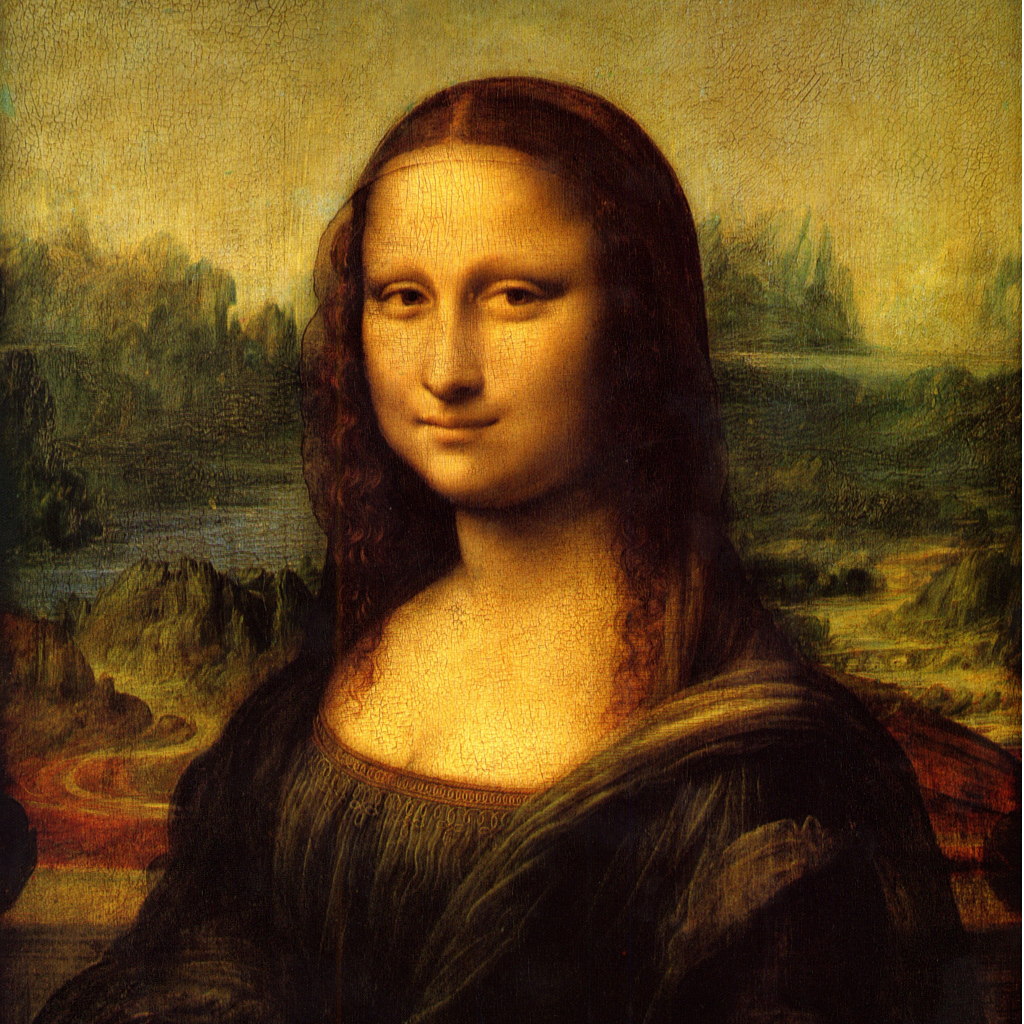
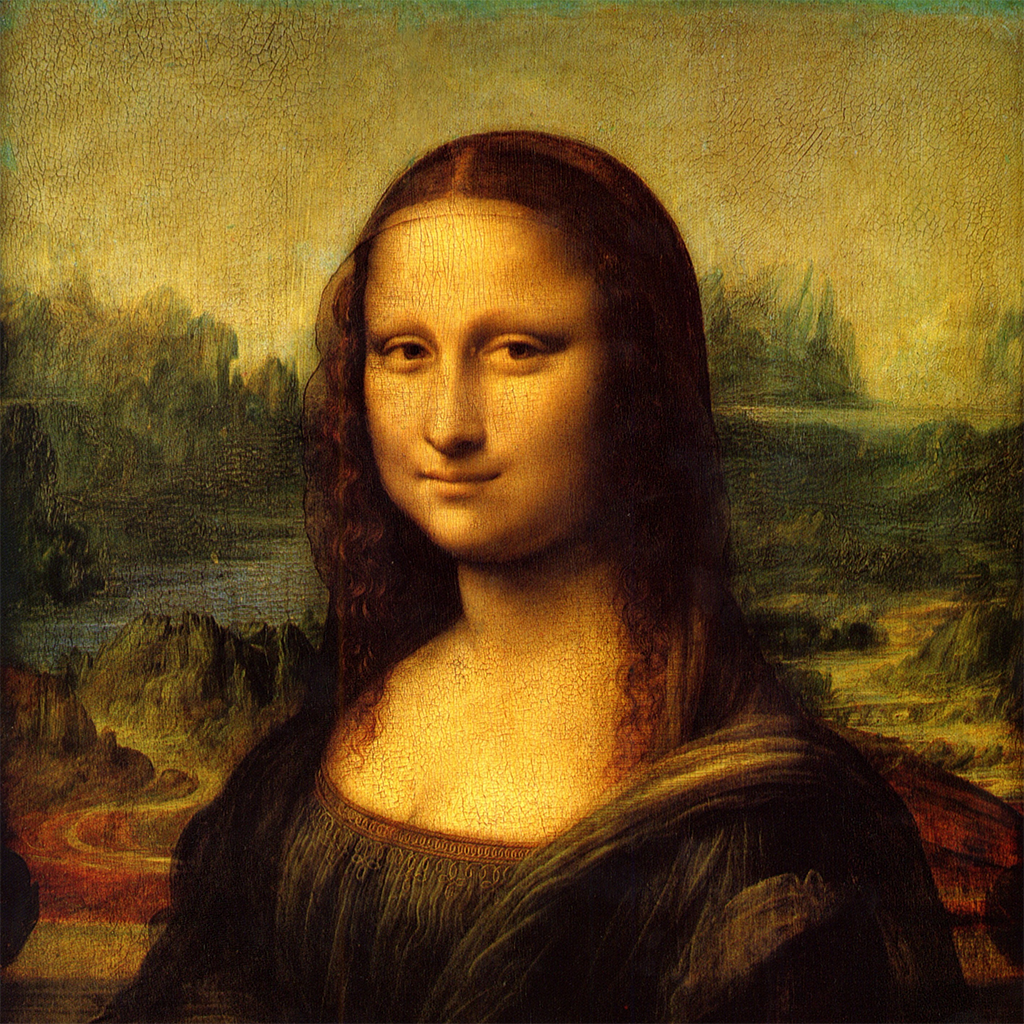
as dasd

diff --git a/MiniMalIstic/src/com/gamelab/mmi/Map.java b/MiniMalIstic/src/com/gamelab/mmi/Map.java
@@ -29,15 +29,21 @@ public class Map {
 	}
 	
 	public void resetPixelsEverTouched () {
-		Arrays.fill(pixelsEverTouched, false);
+		for(int i = 0; i < pixelsEverTouched.length; i++) {
+		    Arrays.fill(pixelsEverTouched[i], false);
+		}
+		//Arrays.fill(pixelsEverTouched, false);
 	}
 	
 	public void resetPixelsRecentlyTouched () {
-		Arrays.fill(pixelsRecentlyTouched, false);
+		for(int i = 0; i < pixelsRecentlyTouched.length; i++) {
+		    Arrays.fill(pixelsRecentlyTouched[i], false);
+		}
+		//Arrays.fill(pixelsRecentlyTouched, false);
 	}
 	
 	public boolean touchPixel(int x, int y) {
-		if (x > pixelsEverTouched.length || x > pixelsEverTouched[0].length) 
+		if (x >= pixelsEverTouched.length || y >= pixelsEverTouched[0].length || y < 0 || x < 0) 
 			return false;
 		
 		if (!pixelsEverTouched[x][y]) {
@@ -51,7 +57,7 @@ public class Map {
 	}
 	
 	public boolean getRecentlyTouched(int x, int y) {
-		if (x > pixelsEverTouched.length || x > pixelsEverTouched[0].length) 
+		if (x > pixelsEverTouched.length || y > pixelsEverTouched[0].length || y < 0 || x < 0) 
 			return false;
 		
 		return pixelsRecentlyTouched[x][y];

diff --git a/MiniMalIstic/src/com/gamelab/mmi/PixelTool.java b/MiniMalIstic/src/com/gamelab/mmi/PixelTool.java
@@ -21,7 +21,7 @@ public class PixelTool extends Tool {
 		
 		if (curDistanceUntilDraw > 0) return;
 		
-		curDistanceUntilDraw = 1.8f*radius;
+		curDistanceUntilDraw = 0.8f*radius;
 		
 		int PixelRadius = (int)(radius/2.0f);
 		
@@ -31,7 +31,9 @@ public class PixelTool extends Tool {
 				if (x * x + y * y <= r * r) {
 					int pX = (int) (curPos.x + x);
 					int pY = (int) (curPos.y + y);
-					drawAbstractPixel(pX, pY, PixelRadius);
+					if (!map.getRecentlyTouched(pX, pY)) {
+						drawAbstractPixel(pX, pY, PixelRadius);
+					}
 				}							
 			}			
 		}
@@ -44,6 +46,11 @@ public class PixelTool extends Tool {
 		
 		pixmapHelper.pixmap.setColor(c);
 		pixmapHelper.pixmap.fillRectangle(_x, Gdx.graphics.getHeight() - _y, 2 * pixelRadius, 2 * pixelRadius);
+		for (int x = _x; x < _x + 2 * pixelRadius; x++) {
+			for (int y = _y; y < _y + 2 * pixelRadius; y++) {
+				map.touchPixel(x, y);
+			}			
+		}
 	}
 	
 	private Color getAverageArroundPixel(int _x, int _y, int pixelRadius) {

diff --git a/MiniMalIstic/src/com/gamelab/mmi/NegatronTool.java b/MiniMalIstic/src/com/gamelab/mmi/NegatronTool.java
@@ -20,7 +20,7 @@ public class NegatronTool extends Tool {
 		
 		if (curDistanceUntilDraw > 0) return;
 		
-		curDistanceUntilDraw = 1.5f*radius;
+		curDistanceUntilDraw = 0.4f*radius;
 		
 		int r = (int) radius;
 		for (int x = -r; x <= r; x++) {
@@ -28,6 +28,11 @@ public class NegatronTool extends Tool {
 				if (x * x + y * y <= r * r) {
 					int pX = (int) (curPos.x + x);
 					int pY = (int) (curPos.y + y);
+					if (map.getRecentlyTouched(pX, pY)) {
+						continue;
+					}
+					map.touchPixel(pX, pY);
+					
 					int value = pixmapHelper.pixmap.getPixel(pX, Gdx.graphics.getHeight() - pY);
 					Color valColor = new Color();
 					Color.rgba8888ToColor(valColor, value);

diff --git a/MiniMalIstic/src/com/gamelab/mmi/Player.java b/MiniMalIstic/src/com/gamelab/mmi/Player.java
@@ -45,10 +45,19 @@ public class Player {
 			pos.add(this.lockAt.cpy().mul(delta * speed));
 			this.length = this.length - delta * speed;
 			
-			tools[tool].draw(pos, oldPos, toolSize, delta * speed);
+			
+			
+			Vector2 headPos = new Vector2(46, 16);
+			
+			Vector2 deltaBrush = new Vector2(42, 47).sub(headPos);
+			
+			deltaBrush.rotate((float) this.rotation + 180);
+					
+			tools[tool].draw(pos.cpy().add(deltaBrush), oldPos, toolSize, delta * speed);
 		} else {
 			pos.add(this.lockAt.cpy().mul(this.length));
 			this.length = 0;
+			map.resetPixelsRecentlyTouched();
 		}
 		playerTextures[currentPlayerTexture].update(delta);
 		this.hitbox.set(origin.x, origin.y,

diff --git a/MiniMalIstic/src/com/gamelab/mmi/GameScreen.java b/MiniMalIstic/src/com/gamelab/mmi/GameScreen.java
@@ -49,7 +49,7 @@ public class GameScreen implements Screen {
 		sprite.setOrigin(sprite.getWidth()/2, sprite.getHeight()/2);
 		sprite.setPosition(-sprite.getWidth()/2, -sprite.getHeight()/2);
 		
-		player = new Player(new Vector2(w / 2, h / 2), 3, map);
+		player = new Player(new Vector2(w / 2, h / 2), 2, map);
 		
 		gameScreenInputHandler = new GameScreenInputHandler(this, player);
 		Gdx.input.setInputProcessor(gameScreenInputHandler);

diff --git a/MiniMalIstic/src/com/gamelab/mmi/PixelSwapperTool.java b/MiniMalIstic/src/com/gamelab/mmi/PixelSwapperTool.java
@@ -33,6 +33,12 @@ public class PixelSwapperTool extends Tool {
 				if (x * x + y * y <= r * r) {
 					int pX = (int) (curPos.x + x);
 					int pY = (int) (curPos.y + y);
+					
+					if (map.getRecentlyTouched(pX, pY)) {
+						continue;
+					}
+					map.touchPixel(pX, pY);
+					
 					int value = pixmapHelper.pixmap.getPixel(pX, Gdx.graphics.getHeight() - pY);
 					
 					int dx = (int) ((Math.random() - 0.5f) * 2 * PixelRadius);

diff --git a/MiniMalIstic/src/com/gamelab/mmi/PlayerTexture.java b/MiniMalIstic/src/com/gamelab/mmi/PlayerTexture.java
@@ -51,7 +51,7 @@ public class PlayerTexture {
 	public void render(float rotation, float x, float y, float scale) {
 		currentFrame = animation.getKeyFrame(animationTime, true);
 		sb.begin();
-		sb.draw(currentFrame, x, y, 46, 16, frameWidth, frameHeight, scale, scale, rotation + 90, true);
+		sb.draw(currentFrame, x - 46, y - 16, 46, 16, frameWidth, frameHeight, scale, scale, rotation + 90, true);
 		sb.end();
 	}
 

diff --git a/MiniMalIstic/src/com/gamelab/mmi/Mmi.java b/MiniMalIstic/src/com/gamelab/mmi/Mmi.java
@@ -9,7 +9,7 @@ public class Mmi extends Game {
 	@Override
 	public void create() {
 		gameScreen=new GameScreen[SCREEN_COUNT];
-		gameScreen[0] = new GameScreen("data/Mona_Lisa-1024.png");
+		gameScreen[0] = new GameScreen("data/Mona_Lisa-512.png");
 //		gameScreen[0] = new GameScreen("data/level1.png");
 //		gameScreen[1] = new GameScreen("data/level2.png");
 		setScreen(gameScreen[0]);

diff --git a/MiniMalIstic-desktop/src/com/gamelab/mmi/Main.java b/MiniMalIstic-desktop/src/com/gamelab/mmi/Main.java
@@ -8,8 +8,8 @@ public class Main {
 		LwjglApplicationConfiguration cfg = new LwjglApplicationConfiguration();
 		cfg.title = "MiniMalIstic";
 		cfg.useGL20 = true;
-		cfg.width = 1024;
-		cfg.height = 1024;
+		cfg.width = 512;
+		cfg.height = 512;
 		
 		new LwjglApplication(new Mmi(), cfg);
 	}

diff --git a/MiniMalIstic/src/com/gamelab/mmi/ColorSuckerTool.java b/MiniMalIstic/src/com/gamelab/mmi/ColorSuckerTool.java
@@ -21,7 +21,7 @@ public class ColorSuckerTool extends Tool {
 		
 		if (curDistanceUntilDraw > 0) return;
 		
-		curDistanceUntilDraw = 0.8f*radius;
+		curDistanceUntilDraw = 0.4f*radius;
 		
 		int r = (int) radius;
 		for (int x = -r; x <= r; x++) {

diff --git a/MiniMalIstic/src/com/gamelab/mmi/GameScreenInputHandler.java b/MiniMalIstic/src/com/gamelab/mmi/GameScreenInputHandler.java
@@ -3,6 +3,7 @@ package com.gamelab.mmi;
 import sun.net.www.content.text.plain;
 
 import com.badlogic.gdx.Gdx;
+import com.badlogic.gdx.Input.Keys;
 import com.badlogic.gdx.InputProcessor;
 import com.badlogic.gdx.math.Vector2;
 
